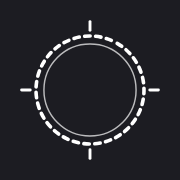
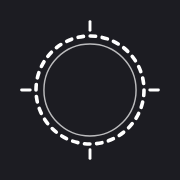
fix(lottie_kit): write the dash offset so Skottie keeps the gaps
Skottie reads the last dash entry as the offset, so stroke(dashes=[dash, gap]) rendered as
[dash, dash] and dotted lines came out solid. Rebuilt the assets that use dashes.

Claude-Session: https://claude.ai/code/session_01SPWsYax5whB11vtHzRzG9n

diff --git a/tools/lottie/lottie_kit.py b/tools/lottie/lottie_kit.py
@@ -163,7 +163,12 @@ def stroke(color="#FFFFFF", width=4, opacity=100, slot=None, cap="round", join="
          "lc": {"butt": 1, "round": 2, "square": 3}[cap], "lj": {"miter": 1, "round": 2, "bevel": 3}[join],
          "ml": 4}
     if dashes:
+        # dashes = [dash, gap, ...] with an optional odd trailing offset. Skottie always reads the
+        # last entry as the offset, so an explicit 0 offset is added when none is given.
+        dashes = list(dashes)
+        offset = dashes.pop() if len(dashes) % 2 else 0
         s["d"] = [{"n": "d" if i % 2 == 0 else "g", "nm": "d", "v": _s(v)} for i, v in enumerate(dashes)]
+        s["d"].append({"n": "o", "nm": "o", "v": _s(offset)})
     return s
 
 
